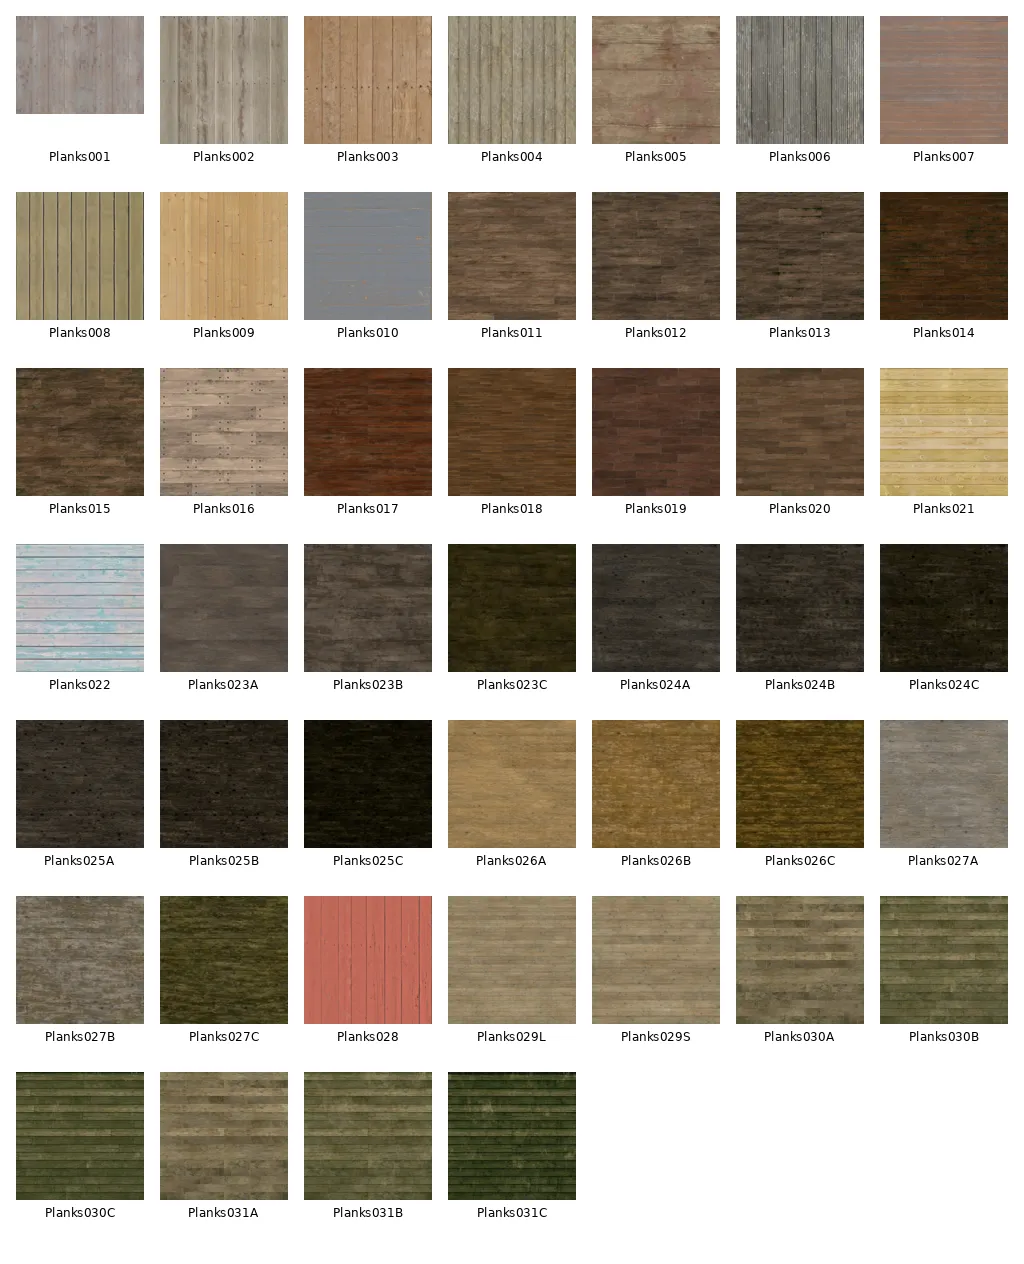
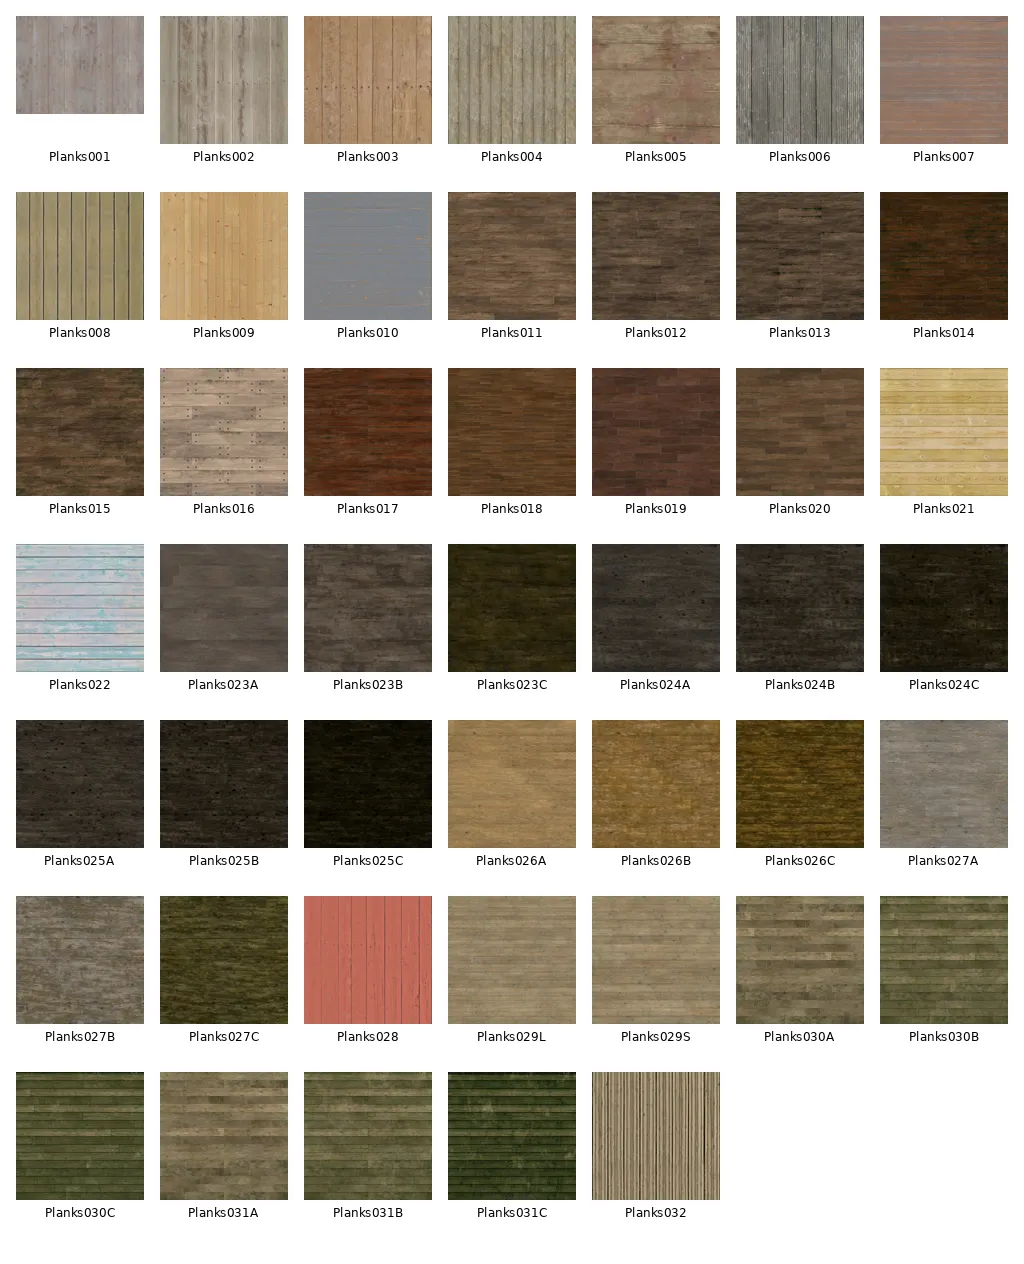
version: v2023.05.01

Changed region(s): [[0.5625, 0.8331, 0.7188, 0.9873]]

diff --git a/README.md b/README.md
@@ -1,26 +1,27 @@
 # Sweethome3D texture library generator from ambientcg.com textures
 
-A python script that downloads all the textures from [ambientcg.com](https://ambientcg.com/) and creates a [Sweethome3D](https://www.sweethome3d.com) texture library (`.sh3t`). The textures are resized to 3 sizes so you can choose the quality.
+A python script which download all textures from [ambientcg.com](https://ambientcg.com/) and build a [Sweethome3D](https://www.sweethome3d.com) texture library (`.sh3t`)
+The texture are resized to 3 sizes, so you can choose quality. 
 
-3 qualities available: 256, 512 and 1024 pixels wide.
+3 qualities available: 256, 512 and 1024 pixels width.
 
-Current version: 2023.03.23<br>
-Total textures: 1191
+Current version: 2023.05.01<br>
+Total textures: 1218
 
 ## Install
 
-Just download the .sh3t file of your choice and use the Sweethome3D texture library import function from the 'Furniture' menu.
+Just download the .sh3t file you want and use the texture library import feature from Sweethome3D from "Furniture" menu.
 
 
-* [ambientcg_1024.sh3t](https://fenouil-drive.mycozy.cloud/public?sharecode=QyiDq6EIACQi) - 180.4 MB
+* [ambientcg_1024.sh3t](https://fenouil-drive.mycozy.cloud/public?sharecode=QyiDq6EIACQi) - 184.4 MB
 
-* [ambientcg_512.sh3t](https://fenouil-drive.mycozy.cloud/public?sharecode=u2Ps0zAB8cij) - 46.7 MB
+* [ambientcg_512.sh3t](https://fenouil-drive.mycozy.cloud/public?sharecode=u2Ps0zAB8cij) - 47.7 MB
 
-* [ambientcg_256.sh3t](https://fenouil-drive.mycozy.cloud/public?sharecode=3gsbVKG3PFBM) - 12.3 MB
+* [ambientcg_256.sh3t](https://fenouil-drive.mycozy.cloud/public?sharecode=3gsbVKG3PFBM) - 12.6 MB
 
 
 ## Missing dimensions
-Unfortunately, many of the textures in ambientcg.com have no defined dimensions. The script defaults to 100cm×100cm.
+Sadly a lot of textures haven't dimensions defined in ambientcg.com. The script default to 100cm×100cm.
 
 ## Build / update the library
 
@@ -50,232 +51,232 @@ Created using assets from ambientCG.com, licensed under the Creative Commons CC0
 
 Original textures author: Lennart Demes
 
-Current code and content follow the same licence.
+The current code and content follow the same licence.
 
 ## Preview
 
 
 ### Asphalt
 <picture>
-  <img alt="Preview of Asphalt" src="https://raw.githubusercontent.com/fabien-michel/sweethome3d-textures-ambientcg/v2023.03.23/previews/Asphalt.webp">
+  <img alt="Preview of Asphalt" src="https://raw.githubusercontent.com/fabien-michel/sweethome3d-textures-ambientcg/v2023.05.01/previews/Asphalt.webp">
 </picture>
 
 ### Bamboo
 <picture>
-  <img alt="Preview of Bamboo" src="https://raw.githubusercontent.com/fabien-michel/sweethome3d-textures-ambientcg/v2023.03.23/previews/Bamboo.webp">
+  <img alt="Preview of Bamboo" src="https://raw.githubusercontent.com/fabien-michel/sweethome3d-textures-ambientcg/v2023.05.01/previews/Bamboo.webp">
 </picture>
 
 ### Bark
 <picture>
-  <img alt="Preview of Bark" src="https://raw.githubusercontent.com/fabien-michel/sweethome3d-textures-ambientcg/v2023.03.23/previews/Bark.webp">
+  <img alt="Preview of Bark" src="https://raw.githubusercontent.com/fabien-michel/sweethome3d-textures-ambientcg/v2023.05.01/previews/Bark.webp">
 </picture>
 
 ### Bricks
 <picture>
-  <img alt="Preview of Bricks" src="https://raw.githubusercontent.com/fabien-michel/sweethome3d-textures-ambientcg/v2023.03.23/previews/Bricks.webp">
+  <img alt="Preview of Bricks" src="https://raw.githubusercontent.com/fabien-michel/sweethome3d-textures-ambientcg/v2023.05.01/previews/Bricks.webp">
 </picture>
 
 ### Cardboard
 <picture>
-  <img alt="Preview of Cardboard" src="https://raw.githubusercontent.com/fabien-michel/sweethome3d-textures-ambientcg/v2023.03.23/previews/Cardboard.webp">
+  <img alt="Preview of Cardboard" src="https://raw.githubusercontent.com/fabien-michel/sweethome3d-textures-ambientcg/v2023.05.01/previews/Cardboard.webp">
 </picture>
 
 ### Carpet
 <picture>
-  <img alt="Preview of Carpet" src="https://raw.githubusercontent.com/fabien-michel/sweethome3d-textures-ambientcg/v2023.03.23/previews/Carpet.webp">
+  <img alt="Preview of Carpet" src="https://raw.githubusercontent.com/fabien-michel/sweethome3d-textures-ambientcg/v2023.05.01/previews/Carpet.webp">
 </picture>
 
 ### Chainmail
 <picture>
-  <img alt="Preview of Chainmail" src="https://raw.githubusercontent.com/fabien-michel/sweethome3d-textures-ambientcg/v2023.03.23/previews/Chainmail.webp">
+  <img alt="Preview of Chainmail" src="https://raw.githubusercontent.com/fabien-michel/sweethome3d-textures-ambientcg/v2023.05.01/previews/Chainmail.webp">
 </picture>
 
 ### Chipboard
 <picture>
-  <img alt="Preview of Chipboard" src="https://raw.githubusercontent.com/fabien-michel/sweethome3d-textures-ambientcg/v2023.03.23/previews/Chipboard.webp">
+  <img alt="Preview of Chipboard" src="https://raw.githubusercontent.com/fabien-michel/sweethome3d-textures-ambientcg/v2023.05.01/previews/Chipboard.webp">
 </picture>
 
 ### Clay
 <picture>
-  <img alt="Preview of Clay" src="https://raw.githubusercontent.com/fabien-michel/sweethome3d-textures-ambientcg/v2023.03.23/previews/Clay.webp">
+  <img alt="Preview of Clay" src="https://raw.githubusercontent.com/fabien-michel/sweethome3d-textures-ambientcg/v2023.05.01/previews/Clay.webp">
 </picture>
 
 ### Concrete
 <picture>
-  <img alt="Preview of Concrete" src="https://raw.githubusercontent.com/fabien-michel/sweethome3d-textures-ambientcg/v2023.03.23/previews/Concrete.webp">
+  <img alt="Preview of Concrete" src="https://raw.githubusercontent.com/fabien-michel/sweethome3d-textures-ambientcg/v2023.05.01/previews/Concrete.webp">
 </picture>
 
 ### Cork
 <picture>
-  <img alt="Preview of Cork" src="https://raw.githubusercontent.com/fabien-michel/sweethome3d-textures-ambientcg/v2023.03.23/previews/Cork.webp">
+  <img alt="Preview of Cork" src="https://raw.githubusercontent.com/fabien-michel/sweethome3d-textures-ambientcg/v2023.05.01/previews/Cork.webp">
 </picture>
 
 ### CorrugatedSteel
 <picture>
-  <img alt="Preview of CorrugatedSteel" src="https://raw.githubusercontent.com/fabien-michel/sweethome3d-textures-ambientcg/v2023.03.23/previews/CorrugatedSteel.webp">
+  <img alt="Preview of CorrugatedSteel" src="https://raw.githubusercontent.com/fabien-michel/sweethome3d-textures-ambientcg/v2023.05.01/previews/CorrugatedSteel.webp">
 </picture>
 
 ### DiamondPlate
 <picture>
-  <img alt="Preview of DiamondPlate" src="https://raw.githubusercontent.com/fabien-michel/sweethome3d-textures-ambientcg/v2023.03.23/previews/DiamondPlate.webp">
+  <img alt="Preview of DiamondPlate" src="https://raw.githubusercontent.com/fabien-michel/sweethome3d-textures-ambientcg/v2023.05.01/previews/DiamondPlate.webp">
 </picture>
 
 ### Fabric
 <picture>
-  <img alt="Preview of Fabric" src="https://raw.githubusercontent.com/fabien-michel/sweethome3d-textures-ambientcg/v2023.03.23/previews/Fabric.webp">
+  <img alt="Preview of Fabric" src="https://raw.githubusercontent.com/fabien-michel/sweethome3d-textures-ambientcg/v2023.05.01/previews/Fabric.webp">
 </picture>
 
 ### GlazedTerracotta
 <picture>
-  <img alt="Preview of GlazedTerracotta" src="https://raw.githubusercontent.com/fabien-michel/sweethome3d-textures-ambientcg/v2023.03.23/previews/GlazedTerracotta.webp">
+  <img alt="Preview of GlazedTerracotta" src="https://raw.githubusercontent.com/fabien-michel/sweethome3d-textures-ambientcg/v2023.05.01/previews/GlazedTerracotta.webp">
 </picture>
 
 ### Granite
 <picture>
-  <img alt="Preview of Granite" src="https://raw.githubusercontent.com/fabien-michel/sweethome3d-textures-ambientcg/v2023.03.23/previews/Granite.webp">
+  <img alt="Preview of Granite" src="https://raw.githubusercontent.com/fabien-michel/sweethome3d-textures-ambientcg/v2023.05.01/previews/Granite.webp">
 </picture>
 
 ### Grass
 <picture>
-  <img alt="Preview of Grass" src="https://raw.githubusercontent.com/fabien-michel/sweethome3d-textures-ambientcg/v2023.03.23/previews/Grass.webp">
+  <img alt="Preview of Grass" src="https://raw.githubusercontent.com/fabien-michel/sweethome3d-textures-ambientcg/v2023.05.01/previews/Grass.webp">
 </picture>
 
 ### Gravel
 <picture>
-  <img alt="Preview of Gravel" src="https://raw.githubusercontent.com/fabien-michel/sweethome3d-textures-ambientcg/v2023.03.23/previews/Gravel.webp">
+  <img alt="Preview of Gravel" src="https://raw.githubusercontent.com/fabien-michel/sweethome3d-textures-ambientcg/v2023.05.01/previews/Gravel.webp">
 </picture>
 
 ### Ground
 <picture>
-  <img alt="Preview of Ground" src="https://raw.githubusercontent.com/fabien-michel/sweethome3d-textures-ambientcg/v2023.03.23/previews/Ground.webp">
+  <img alt="Preview of Ground" src="https://raw.githubusercontent.com/fabien-michel/sweethome3d-textures-ambientcg/v2023.05.01/previews/Ground.webp">
 </picture>
 
 ### Marble
 <picture>
-  <img alt="Preview of Marble" src="https://raw.githubusercontent.com/fabien-michel/sweethome3d-textures-ambientcg/v2023.03.23/previews/Marble.webp">
+  <img alt="Preview of Marble" src="https://raw.githubusercontent.com/fabien-michel/sweethome3d-textures-ambientcg/v2023.05.01/previews/Marble.webp">
 </picture>
 
 ### Metal
 <picture>
-  <img alt="Preview of Metal" src="https://raw.githubusercontent.com/fabien-michel/sweethome3d-textures-ambientcg/v2023.03.23/previews/Metal.webp">
+  <img alt="Preview of Metal" src="https://raw.githubusercontent.com/fabien-michel/sweethome3d-textures-ambientcg/v2023.05.01/previews/Metal.webp">
 </picture>
 
 ### Moss
 <picture>
-  <img alt="Preview of Moss" src="https://raw.githubusercontent.com/fabien-michel/sweethome3d-textures-ambientcg/v2023.03.23/previews/Moss.webp">
+  <img alt="Preview of Moss" src="https://raw.githubusercontent.com/fabien-michel/sweethome3d-textures-ambientcg/v2023.05.01/previews/Moss.webp">
 </picture>
 
 ### OfficeCeiling
 <picture>
-  <img alt="Preview of OfficeCeiling" src="https://raw.githubusercontent.com/fabien-michel/sweethome3d-textures-ambientcg/v2023.03.23/previews/OfficeCeiling.webp">
+  <img alt="Preview of OfficeCeiling" src="https://raw.githubusercontent.com/fabien-michel/sweethome3d-textures-ambientcg/v2023.05.01/previews/OfficeCeiling.webp">
 </picture>
 
 ### Paint
 <picture>
-  <img alt="Preview of Paint" src="https://raw.githubusercontent.com/fabien-michel/sweethome3d-textures-ambientcg/v2023.03.23/previews/Paint.webp">
+  <img alt="Preview of Paint" src="https://raw.githubusercontent.com/fabien-michel/sweethome3d-textures-ambientcg/v2023.05.01/previews/Paint.webp">
 </picture>
 
 ### Paper
 <picture>
-  <img alt="Preview of Paper" src="https://raw.githubusercontent.com/fabien-michel/sweethome3d-textures-ambientcg/v2023.03.23/previews/Paper.webp">
+  <img alt="Preview of Paper" src="https://raw.githubusercontent.com/fabien-michel/sweethome3d-textures-ambientcg/v2023.05.01/previews/Paper.webp">
 </picture>
 
 ### PavingStones
 <picture>
-  <img alt="Preview of PavingStones" src="https://raw.githubusercontent.com/fabien-michel/sweethome3d-textures-ambientcg/v2023.03.23/previews/PavingStones.webp">
+  <img alt="Preview of PavingStones" src="https://raw.githubusercontent.com/fabien-michel/sweethome3d-textures-ambientcg/v2023.05.01/previews/PavingStones.webp">
 </picture>
 
 ### Planks
 <picture>
-  <img alt="Preview of Planks" src="https://raw.githubusercontent.com/fabien-michel/sweethome3d-textures-ambientcg/v2023.03.23/previews/Planks.webp">
+  <img alt="Preview of Planks" src="https://raw.githubusercontent.com/fabien-michel/sweethome3d-textures-ambientcg/v2023.05.01/previews/Planks.webp">
 </picture>
 
 ### Plaster
 <picture>
-  <img alt="Preview of Plaster" src="https://raw.githubusercontent.com/fabien-michel/sweethome3d-textures-ambientcg/v2023.03.23/previews/Plaster.webp">
+  <img alt="Preview of Plaster" src="https://raw.githubusercontent.com/fabien-michel/sweethome3d-textures-ambientcg/v2023.05.01/previews/Plaster.webp">
 </picture>
 
 ### Plastic
 <picture>
-  <img alt="Preview of Plastic" src="https://raw.githubusercontent.com/fabien-michel/sweethome3d-textures-ambientcg/v2023.03.23/previews/Plastic.webp">
+  <img alt="Preview of Plastic" src="https://raw.githubusercontent.com/fabien-michel/sweethome3d-textures-ambientcg/v2023.05.01/previews/Plastic.webp">
 </picture>
 
 ### Porcelain
 <picture>
-  <img alt="Preview of Porcelain" src="https://raw.githubusercontent.com/fabien-michel/sweethome3d-textures-ambientcg/v2023.03.23/previews/Porcelain.webp">
+  <img alt="Preview of Porcelain" src="https://raw.githubusercontent.com/fabien-michel/sweethome3d-textures-ambientcg/v2023.05.01/previews/Porcelain.webp">
 </picture>
 
 ### Road
 <picture>
-  <img alt="Preview of Road" src="https://raw.githubusercontent.com/fabien-michel/sweethome3d-textures-ambientcg/v2023.03.23/previews/Road.webp">
+  <img alt="Preview of Road" src="https://raw.githubusercontent.com/fabien-michel/sweethome3d-textures-ambientcg/v2023.05.01/previews/Road.webp">
 </picture>
 
 ### Rock
 <picture>
-  <img alt="Preview of Rock" src="https://raw.githubusercontent.com/fabien-michel/sweethome3d-textures-ambientcg/v2023.03.23/previews/Rock.webp">
+  <img alt="Preview of Rock" src="https://raw.githubusercontent.com/fabien-michel/sweethome3d-textures-ambientcg/v2023.05.01/previews/Rock.webp">
 </picture>
 
 ### Rocks
 <picture>
-  <img alt="Preview of Rocks" src="https://raw.githubusercontent.com/fabien-michel/sweethome3d-textures-ambientcg/v2023.03.23/previews/Rocks.webp">
+  <img alt="Preview of Rocks" src="https://raw.githubusercontent.com/fabien-michel/sweethome3d-textures-ambientcg/v2023.05.01/previews/Rocks.webp">
 </picture>
 
 ### RoofingTiles
 <picture>
-  <img alt="Preview of RoofingTiles" src="https://raw.githubusercontent.com/fabien-michel/sweethome3d-textures-ambientcg/v2023.03.23/previews/RoofingTiles.webp">
+  <img alt="Preview of RoofingTiles" src="https://raw.githubusercontent.com/fabien-michel/sweethome3d-textures-ambientcg/v2023.05.01/previews/RoofingTiles.webp">
 </picture>
 
 ### Rust
 <picture>
-  <img alt="Preview of Rust" src="https://raw.githubusercontent.com/fabien-michel/sweethome3d-textures-ambientcg/v2023.03.23/previews/Rust.webp">
+  <img alt="Preview of Rust" src="https://raw.githubusercontent.com/fabien-michel/sweethome3d-textures-ambientcg/v2023.05.01/previews/Rust.webp">
 </picture>
 
 ### Snow
 <picture>
-  <img alt="Preview of Snow" src="https://raw.githubusercontent.com/fabien-michel/sweethome3d-textures-ambientcg/v2023.03.23/previews/Snow.webp">
+  <img alt="Preview of Snow" src="https://raw.githubusercontent.com/fabien-michel/sweethome3d-textures-ambientcg/v2023.05.01/previews/Snow.webp">
 </picture>
 
 ### SolarPanel
 <picture>
-  <img alt="Preview of SolarPanel" src="https://raw.githubusercontent.com/fabien-michel/sweethome3d-textures-ambientcg/v2023.03.23/previews/SolarPanel.webp">
+  <img alt="Preview of SolarPanel" src="https://raw.githubusercontent.com/fabien-michel/sweethome3d-textures-ambientcg/v2023.05.01/previews/SolarPanel.webp">
 </picture>
 
 ### Terrazzo
 <picture>
-  <img alt="Preview of Terrazzo" src="https://raw.githubusercontent.com/fabien-michel/sweethome3d-textures-ambientcg/v2023.03.23/previews/Terrazzo.webp">
+  <img alt="Preview of Terrazzo" src="https://raw.githubusercontent.com/fabien-michel/sweethome3d-textures-ambientcg/v2023.05.01/previews/Terrazzo.webp">
 </picture>
 
 ### ThatchedRoof
 <picture>
-  <img alt="Preview of ThatchedRoof" src="https://raw.githubusercontent.com/fabien-michel/sweethome3d-textures-ambientcg/v2023.03.23/previews/ThatchedRoof.webp">
+  <img alt="Preview of ThatchedRoof" src="https://raw.githubusercontent.com/fabien-michel/sweethome3d-textures-ambientcg/v2023.05.01/previews/ThatchedRoof.webp">
 </picture>
 
 ### Tiles
 <picture>
-  <img alt="Preview of Tiles" src="https://raw.githubusercontent.com/fabien-michel/sweethome3d-textures-ambientcg/v2023.03.23/previews/Tiles.webp">
+  <img alt="Preview of Tiles" src="https://raw.githubusercontent.com/fabien-michel/sweethome3d-textures-ambientcg/v2023.05.01/previews/Tiles.webp">
 </picture>
 
 ### Wallpaper
 <picture>
-  <img alt="Preview of Wallpaper" src="https://raw.githubusercontent.com/fabien-michel/sweethome3d-textures-ambientcg/v2023.03.23/previews/Wallpaper.webp">
+  <img alt="Preview of Wallpaper" src="https://raw.githubusercontent.com/fabien-michel/sweethome3d-textures-ambientcg/v2023.05.01/previews/Wallpaper.webp">
 </picture>
 
 ### Wood
 <picture>
-  <img alt="Preview of Wood" src="https://raw.githubusercontent.com/fabien-michel/sweethome3d-textures-ambientcg/v2023.03.23/previews/Wood.webp">
+  <img alt="Preview of Wood" src="https://raw.githubusercontent.com/fabien-michel/sweethome3d-textures-ambientcg/v2023.05.01/previews/Wood.webp">
 </picture>
 
 ### WoodChips
 <picture>
-  <img alt="Preview of WoodChips" src="https://raw.githubusercontent.com/fabien-michel/sweethome3d-textures-ambientcg/v2023.03.23/previews/WoodChips.webp">
+  <img alt="Preview of WoodChips" src="https://raw.githubusercontent.com/fabien-michel/sweethome3d-textures-ambientcg/v2023.05.01/previews/WoodChips.webp">
 </picture>
 
 ### WoodFloor
 <picture>
-  <img alt="Preview of WoodFloor" src="https://raw.githubusercontent.com/fabien-michel/sweethome3d-textures-ambientcg/v2023.03.23/previews/WoodFloor.webp">
+  <img alt="Preview of WoodFloor" src="https://raw.githubusercontent.com/fabien-michel/sweethome3d-textures-ambientcg/v2023.05.01/previews/WoodFloor.webp">
 </picture>
 
 ### WoodSiding
 <picture>
-  <img alt="Preview of WoodSiding" src="https://raw.githubusercontent.com/fabien-michel/sweethome3d-textures-ambientcg/v2023.03.23/previews/WoodSiding.webp">
+  <img alt="Preview of WoodSiding" src="https://raw.githubusercontent.com/fabien-michel/sweethome3d-textures-ambientcg/v2023.05.01/previews/WoodSiding.webp">
 </picture>
